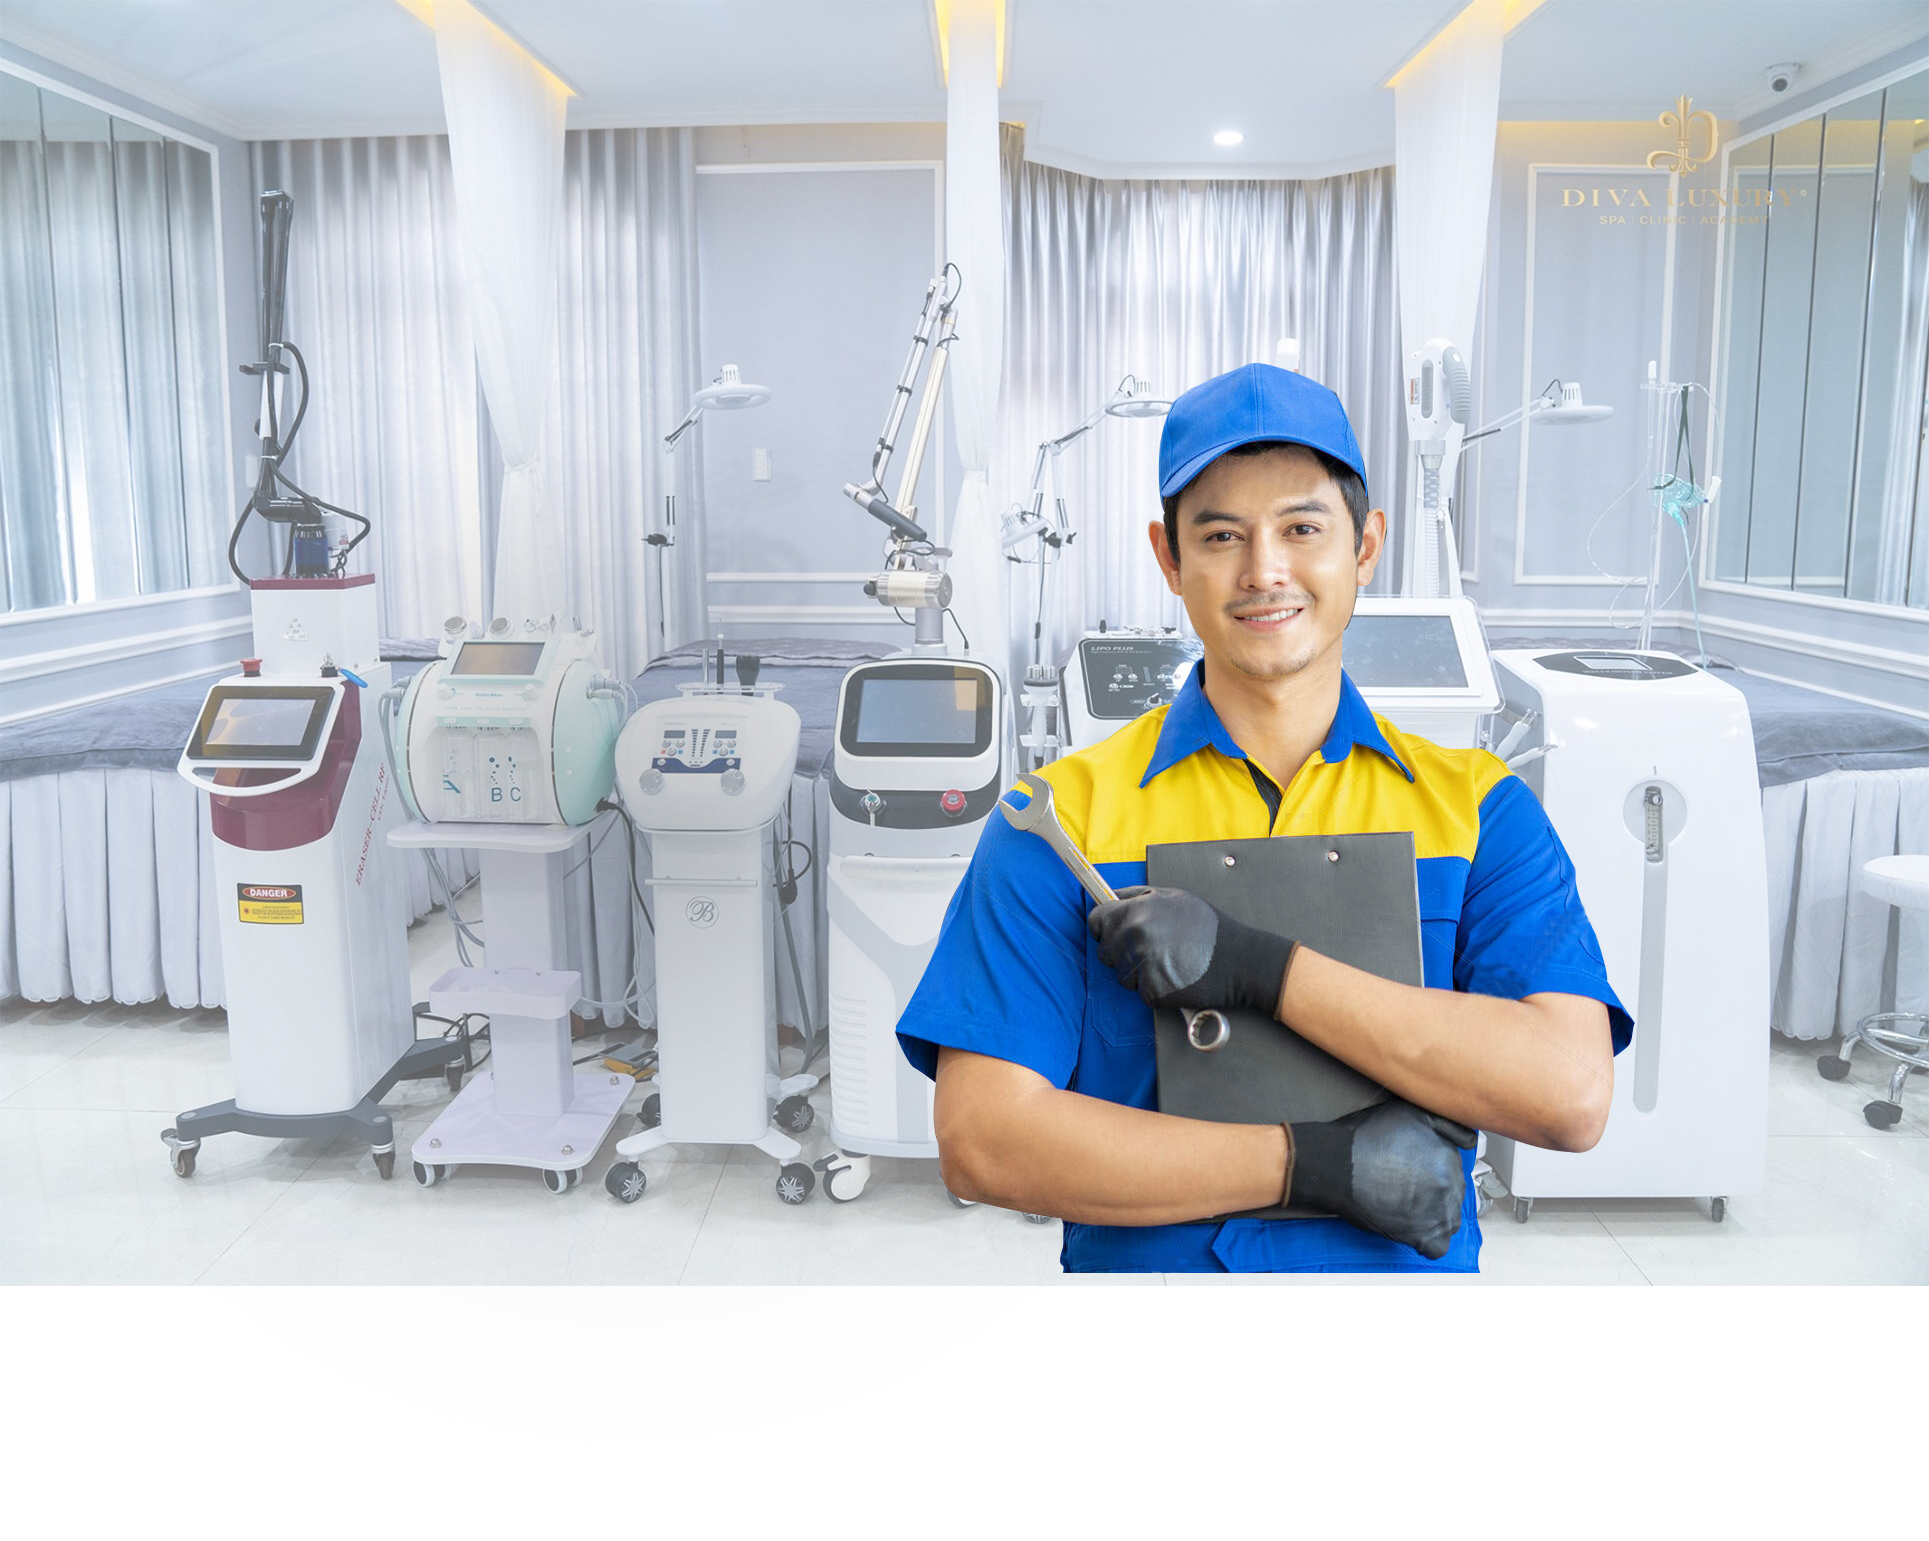
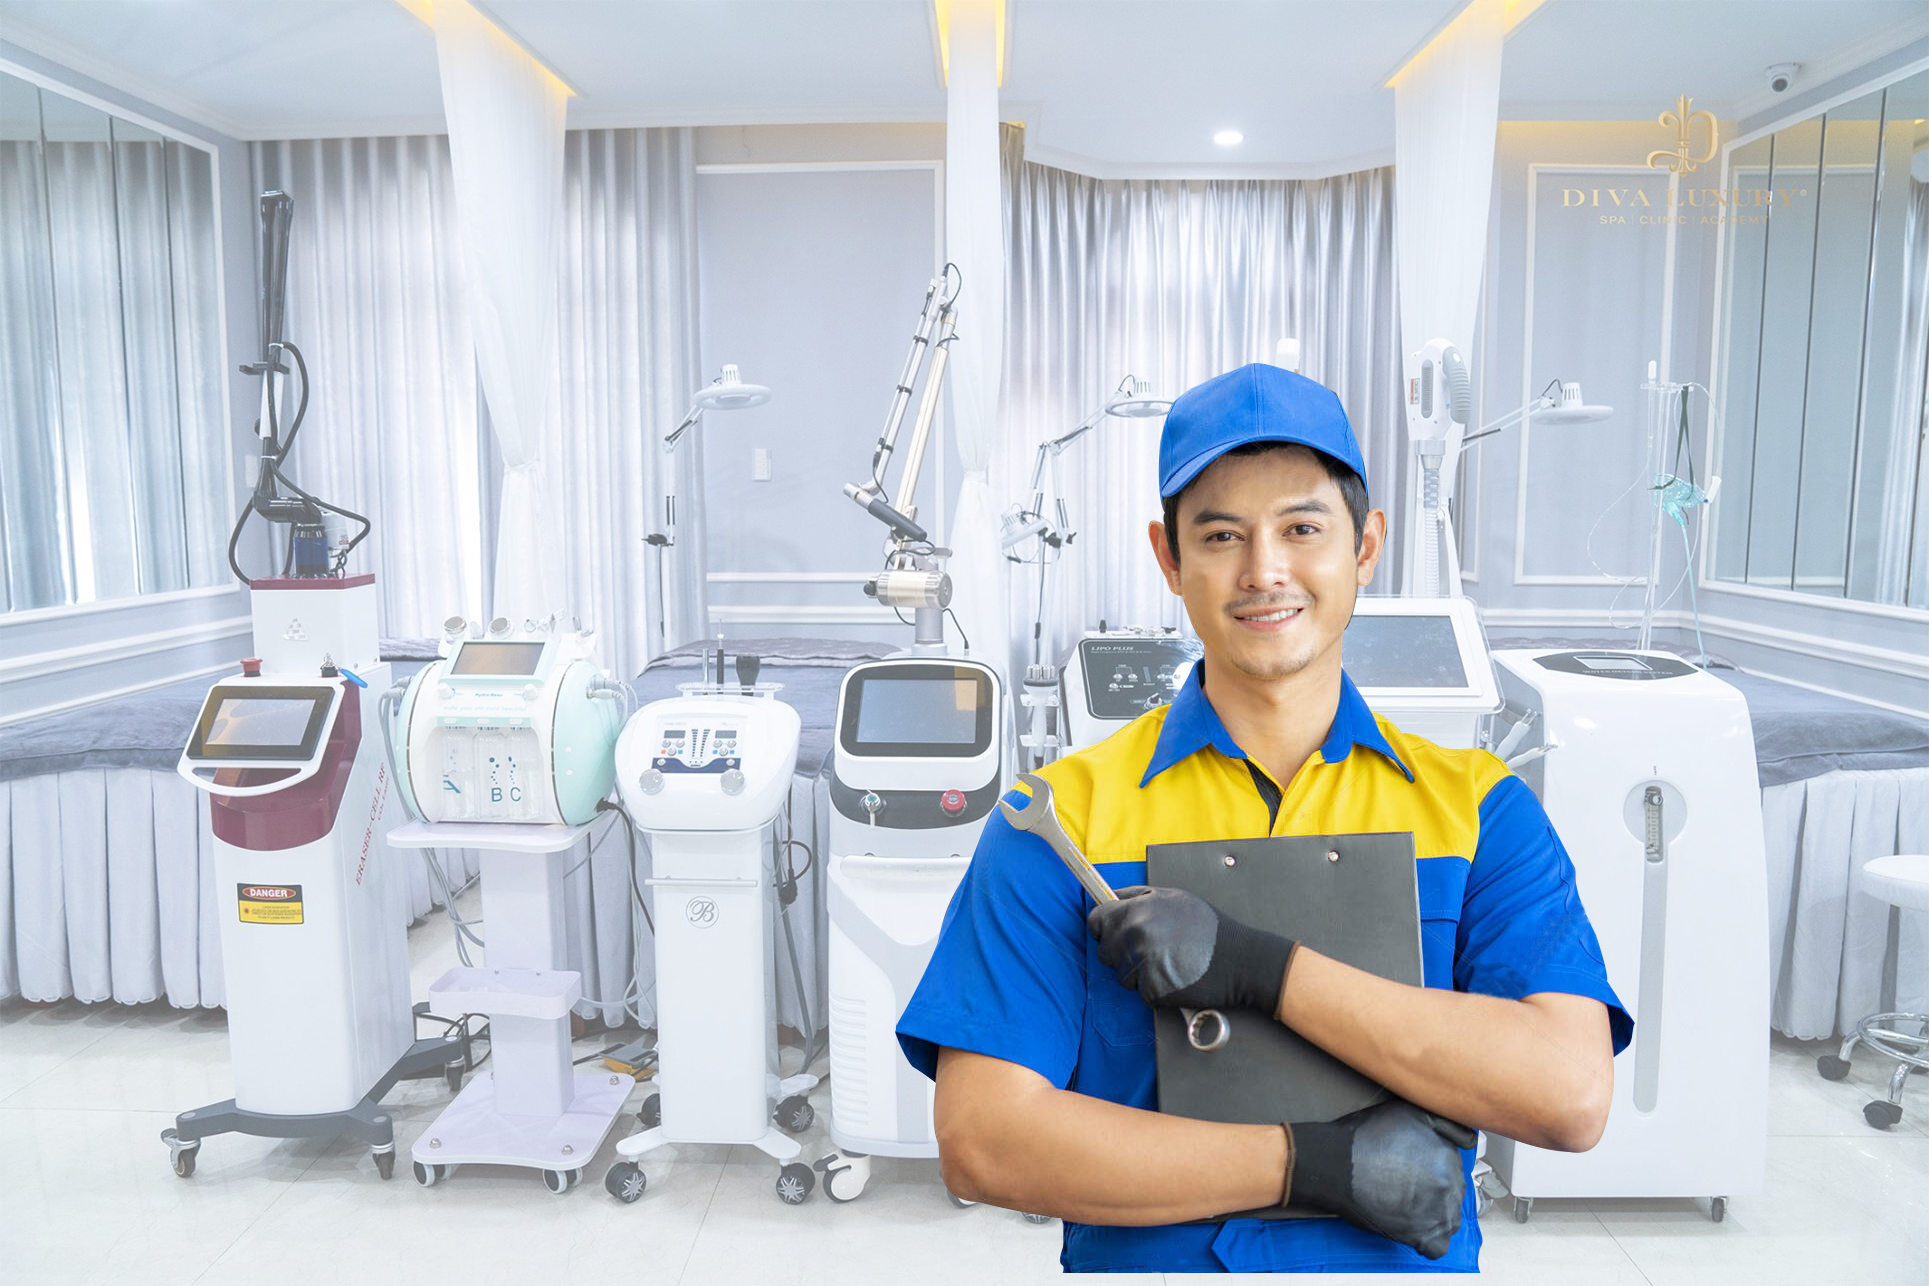
update

diff --git a/src/components/banner/banner.sass b/src/components/banner/banner.sass
@@ -52,10 +52,9 @@
 	margin-top: -120/16*1rem
 	position: relative
 	.img
-		width: 100%
-		overflow: hidden
+		width: auto
 		position: relative
-		height: calc( 100vh + 120/16*1rem)
+		height: calc( 100vh + 120px )
 		img
 			width: 100%
 			height: 100%
@@ -67,7 +66,6 @@
 			top: 0
 			bottom: 0
 			width: 100%
-			height: calc( 100vh + 120/16*1rem )
 			background-color: rgba(0,0,0,0.3)
 			z-index: 2
 	.banner-content
